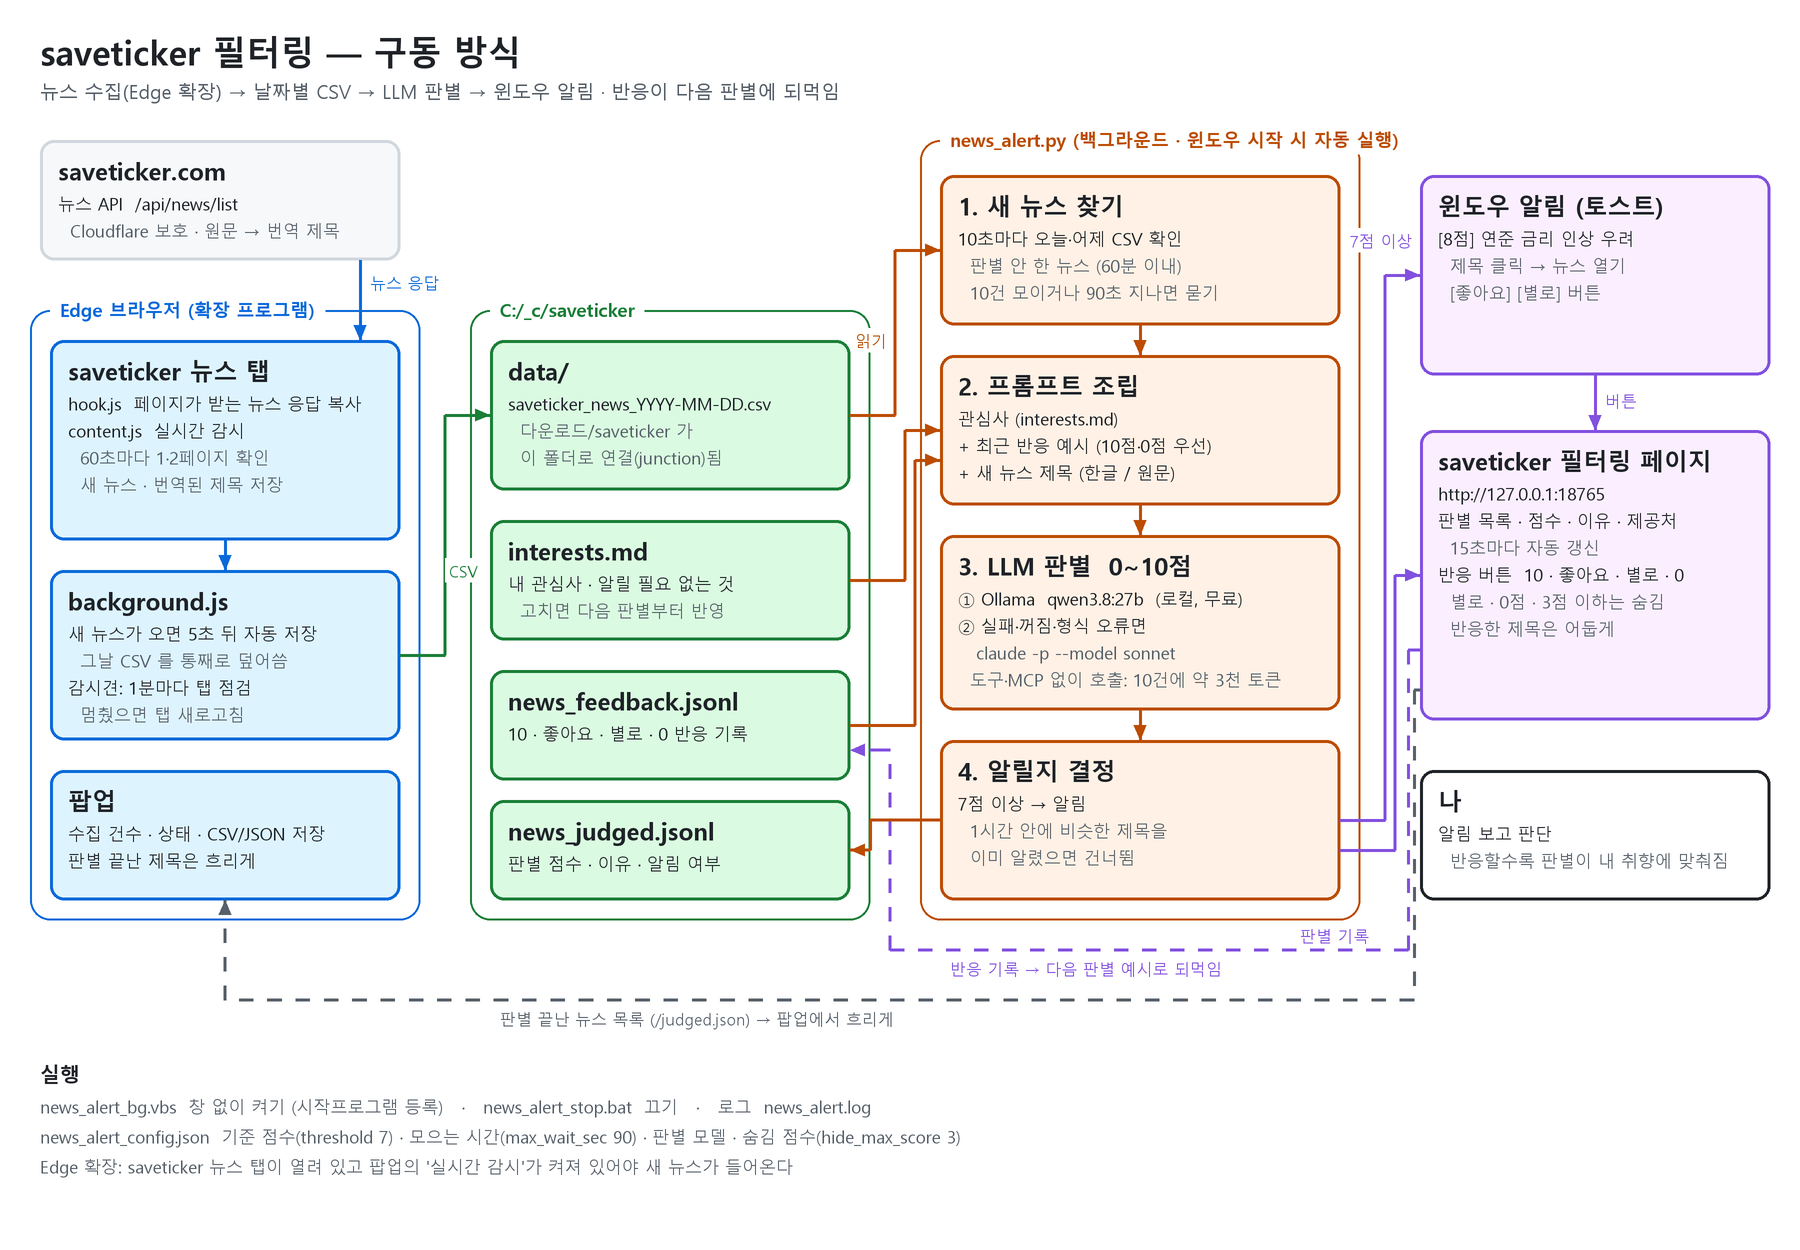
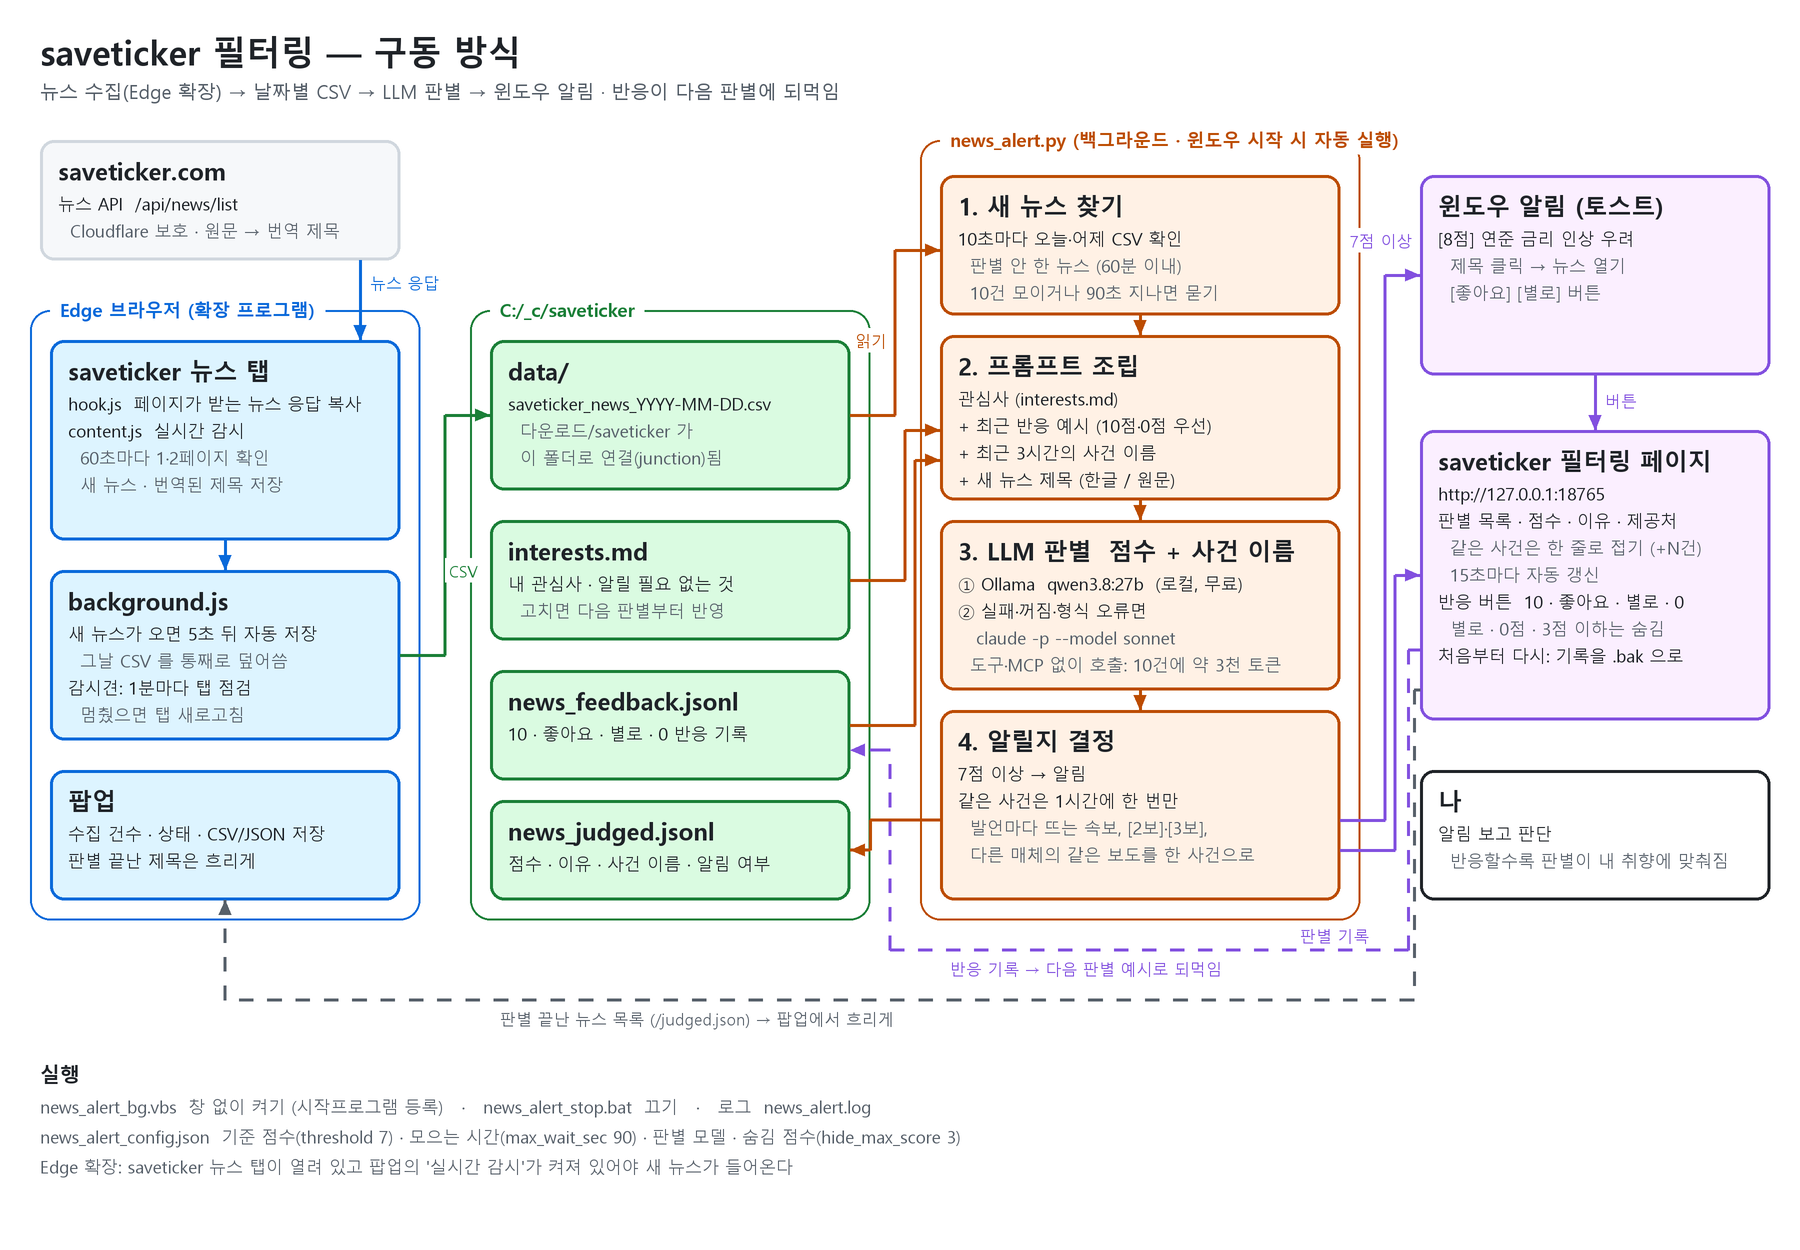
Redraw architecture diagram (event grouping, start over); keep its script

Changed region(s): [[0.4978, 0.2496, 0.7467, 0.6864], [0.8089, 0.4368, 0.9333, 0.5304], [0.28, 0.6864, 0.4044, 0.7176]]

diff --git a/docs/draw_architecture.py b/docs/draw_architecture.py
@@ -1,0 +1,178 @@
+"""docs/architecture.png 를 그린다: python docs/draw_architecture.py (윈도우 맑은 고딕 필요)"""
+import os
+
+from PIL import Image, ImageDraw, ImageFont
+
+W, H = 1800, 1250
+S = 2  # supersample
+img = Image.new("RGB", (W * S, H * S), "#ffffff")
+d = ImageDraw.Draw(img)
+
+F = r"C:\Windows\Fonts\malgun.ttf"
+FB = r"C:\Windows\Fonts\malgunbd.ttf"
+def font(sz, bold=False):
+    return ImageFont.truetype(FB if bold else F, sz * S)
+
+INK = "#1f2328"
+MUTED = "#57606a"
+LINE = "#8c959f"
+
+def box(x, y, w, h, title, lines, fill, edge, tsz=24):
+    d.rounded_rectangle([x * S, y * S, (x + w) * S, (y + h) * S], radius=14 * S,
+                        fill=fill, outline=edge, width=3 * S)
+    d.text(((x + 18) * S, (y + 14) * S), title, font=font(tsz, True), fill=INK)
+    yy = y + 14 + tsz + 14
+    for ln in lines:
+        d.text(((x + 18) * S, yy * S), ln, font=font(17), fill=MUTED if ln.startswith("  ") else INK)
+        yy += 27
+
+def group(x, y, w, h, label, edge):
+    d.rounded_rectangle([x * S, y * S, (x + w) * S, (y + h) * S], radius=20 * S,
+                        outline=edge, width=2 * S)
+    tw = d.textlength(label, font=font(18, True))
+    d.rectangle([(x + 20) * S, (y - 14) * S, (x + 20) * S + tw + 20 * S, (y + 14) * S], fill="#ffffff")
+    d.text(((x + 30) * S, (y - 13) * S), label, font=font(18, True), fill=edge)
+
+def arrow(pts, label=None, lpos=None, color=LINE, dashed=False):
+    pts = [(px * S, py * S) for px, py in pts]
+    for (x1, y1), (x2, y2) in zip(pts, pts[1:]):
+        if dashed:
+            n = int(max(abs(x2 - x1), abs(y2 - y1)) / (14 * S)) or 1
+            for i in range(0, n, 2):
+                a, b = i / n, min((i + 1) / n, 1)
+                d.line([x1 + (x2 - x1) * a, y1 + (y2 - y1) * a, x1 + (x2 - x1) * b, y1 + (y2 - y1) * b],
+                       fill=color, width=3 * S)
+        else:
+            d.line([x1, y1, x2, y2], fill=color, width=3 * S)
+    (x1, y1), (x2, y2) = pts[-2], pts[-1]
+    import math
+    ang = math.atan2(y2 - y1, x2 - x1)
+    L = 16 * S
+    d.polygon([(x2, y2),
+               (x2 - L * math.cos(ang - 0.4), y2 - L * math.sin(ang - 0.4)),
+               (x2 - L * math.cos(ang + 0.4), y2 - L * math.sin(ang + 0.4))], fill=color)
+    if label:
+        lx, ly = lpos
+        for i, t in enumerate(label.split("\n")):
+            tw = d.textlength(t, font=font(16))
+            d.rectangle([lx * S - 4 * S, (ly + i * 22) * S - 2 * S, lx * S + tw + 4 * S, (ly + i * 22 + 22) * S],
+                        fill="#ffffff")
+            d.text((lx * S, (ly + i * 22) * S), t, font=font(16), fill=color)
+
+# title
+d.text((40 * S, 28 * S), "saveticker 필터링 — 구동 방식", font=font(34, True), fill=INK)
+d.text((40 * S, 78 * S), "뉴스 수집(Edge 확장) → 날짜별 CSV → LLM 판별 → 윈도우 알림 · 반응이 다음 판별에 되먹임",
+       font=font(19), fill=MUTED)
+
+BLUE, BLUE_BG = "#0969da", "#ddf4ff"
+GREEN, GREEN_BG = "#1a7f37", "#dafbe1"
+ORANGE, ORANGE_BG = "#bc4c00", "#fff1e5"
+PURPLE, PURPLE_BG = "#8250df", "#fbefff"
+GRAY_BG = "#f6f8fa"
+
+# ---- column 1: web + Edge
+box(40, 140, 360, 120, "saveticker.com", ["뉴스 API  /api/news/list", "  Cloudflare 보호 · 원문 → 번역 제목"], GRAY_BG, "#d0d7de")
+
+group(30, 310, 390, 610, "Edge 브라우저 (확장 프로그램)", BLUE)
+box(50, 340, 350, 200, "saveticker 뉴스 탭", [
+    "hook.js  페이지가 받는 뉴스 응답 복사",
+    "content.js  실시간 감시",
+    "  60초마다 1·2페이지 확인",
+    "  새 뉴스 · 번역된 제목 저장",
+], BLUE_BG, BLUE)
+box(50, 570, 350, 170, "background.js", [
+    "새 뉴스가 오면 5초 뒤 자동 저장",
+    "  그날 CSV 를 통째로 덮어씀",
+    "감시견: 1분마다 탭 점검",
+    "  멈췄으면 탭 새로고침",
+], BLUE_BG, BLUE)
+box(50, 770, 350, 130, "팝업", [
+    "수집 건수 · 상태 · CSV/JSON 저장",
+    "판별 끝난 제목은 흐리게",
+], BLUE_BG, BLUE)
+
+# ---- column 2: files
+group(470, 310, 400, 610, "C:/_c/saveticker", GREEN)
+box(490, 340, 360, 150, "data/", [
+    "saveticker_news_YYYY-MM-DD.csv",
+    "  다운로드/saveticker 가",
+    "  이 폴더로 연결(junction)됨",
+], GREEN_BG, GREEN)
+box(490, 520, 360, 120, "interests.md", ["내 관심사 · 알릴 필요 없는 것", "  고치면 다음 판별부터 반영"], GREEN_BG, GREEN)
+box(490, 670, 360, 110, "news_feedback.jsonl", ["🔔10 · 👍 · 👎 · 🔕0 반응 기록".replace("🔔", "").replace("👍", "좋아요").replace("👎", "별로").replace("🔕", "")], GREEN_BG, GREEN)
+box(490, 800, 360, 100, "news_judged.jsonl", ["점수 · 이유 · 사건 이름 · 알림 여부"], GREEN_BG, GREEN)
+
+# ---- column 3: judge
+group(920, 140, 440, 780, "news_alert.py (백그라운드 · 윈도우 시작 시 자동 실행)", ORANGE)
+box(940, 175, 400, 140, "1. 새 뉴스 찾기", [
+    "10초마다 오늘·어제 CSV 확인",
+    "  판별 안 한 뉴스 (60분 이내)",
+    "  10건 모이거나 90초 지나면 묻기",
+], ORANGE_BG, ORANGE)
+box(940, 335, 400, 165, "2. 프롬프트 조립", [
+    "관심사 (interests.md)",
+    "+ 최근 반응 예시 (10점·0점 우선)",
+    "+ 최근 3시간의 사건 이름",
+    "+ 새 뉴스 제목 (한글 / 원문)",
+], ORANGE_BG, ORANGE)
+box(940, 520, 400, 170, "3. LLM 판별  점수 + 사건 이름", [
+    "① Ollama  qwen3.8:27b  (로컬, 무료)",
+    "② 실패·꺼짐·형식 오류면",
+    "   claude -p --model sonnet",
+    "  도구·MCP 없이 호출: 10건에 약 3천 토큰",
+], ORANGE_BG, ORANGE)
+box(940, 710, 400, 190, "4. 알릴지 결정", [
+    "7점 이상 → 알림",
+    "같은 사건은 1시간에 한 번만",
+    "  발언마다 뜨는 속보, [2보]·[3보],",
+    "  다른 매체의 같은 보도를 한 사건으로",
+], ORANGE_BG, ORANGE)
+
+# ---- column 4: outputs
+box(1420, 175, 350, 200, "윈도우 알림 (토스트)", [
+    "[8점] 연준 금리 인상 우려",
+    "  제목 클릭 → 뉴스 열기",
+    "  [좋아요] [별로] 버튼",
+], PURPLE_BG, PURPLE)
+box(1420, 430, 350, 290, "saveticker 필터링 페이지", [
+    "http://127.0.0.1:18765",
+    "판별 목록 · 점수 · 이유 · 제공처",
+    "  같은 사건은 한 줄로 접기 (+N건)",
+    "  15초마다 자동 갱신",
+    "반응 버튼  10 · 좋아요 · 별로 · 0",
+    "  별로 · 0점 · 3점 이하는 숨김",
+    "처음부터 다시: 기록을 .bak 으로",
+], PURPLE_BG, PURPLE)
+box(1420, 770, 350, 130, "나", ["알림 보고 판단", "  반응할수록 판별이 내 취향에 맞춰짐"], "#ffffff", INK)
+
+# ---- arrows
+arrow([(360, 260), (360, 340)], "뉴스 응답", (370, 272), BLUE)
+arrow([(225, 540), (225, 570)], color=BLUE)
+arrow([(400, 655), (445, 655), (445, 415), (490, 415)], "CSV", (449, 560), GREEN)
+arrow([(850, 415), (895, 415), (895, 250), (940, 250)], "읽기", (855, 330), ORANGE)
+arrow([(850, 580), (905, 580), (905, 430), (940, 430)], None, None, ORANGE)
+arrow([(850, 725), (915, 725), (915, 460), (940, 460)], None, None, ORANGE)
+arrow([(1140, 315), (1140, 335)], color=ORANGE)
+arrow([(1140, 500), (1140, 520)], color=ORANGE)
+arrow([(1140, 690), (1140, 710)], color=ORANGE)
+arrow([(1340, 820), (1385, 820), (1385, 275), (1420, 275)], "7점 이상", (1300 + 50, 520 - 290), PURPLE)
+arrow([(1340, 850), (1395, 850), (1395, 575), (1420, 575)], "판별 기록", (1300, 925), PURPLE)
+arrow([(1595, 375), (1595, 430)], "버튼", (1605, 390), PURPLE)
+# feedback loop back to feedback file
+arrow([(1420, 650), (1408, 650), (1408, 950), (890, 950), (890, 750), (850, 750)], "반응 기록 → 다음 판별 예시로 되먹임", (950, 958), PURPLE, dashed=True)
+arrow([(940, 820), (870, 820), (870, 850), (850, 850)], None, None, ORANGE)
+# popup dims judged
+arrow([(1420, 690), (1414, 690), (1414, 1000), (225, 1000), (225, 900)], "판별 끝난 뉴스 목록 (/judged.json) → 팝업에서 흐리게", (500, 1008), MUTED, dashed=True)
+
+# legend / run
+d.text((40 * S, 1060 * S), "실행", font=font(20, True), fill=INK)
+for i, t in enumerate([
+    "news_alert_bg.vbs  창 없이 켜기 (시작프로그램 등록)   ·   news_alert_stop.bat  끄기   ·   로그  news_alert.log",
+    "news_alert_config.json  기준 점수(threshold 7) · 모으는 시간(max_wait_sec 90) · 판별 모델 · 숨김 점수(hide_max_score 3)",
+    "Edge 확장: saveticker 뉴스 탭이 열려 있고 팝업의 '실시간 감시'가 켜져 있어야 새 뉴스가 들어온다",
+]):
+    d.text((40 * S, (1095 + i * 30) * S), t, font=font(17), fill=MUTED)
+
+img = img.resize((W, H), Image.LANCZOS)
+img.save(os.path.join(os.path.dirname(os.path.abspath(__file__)), "architecture.png"))
+print("saved")
